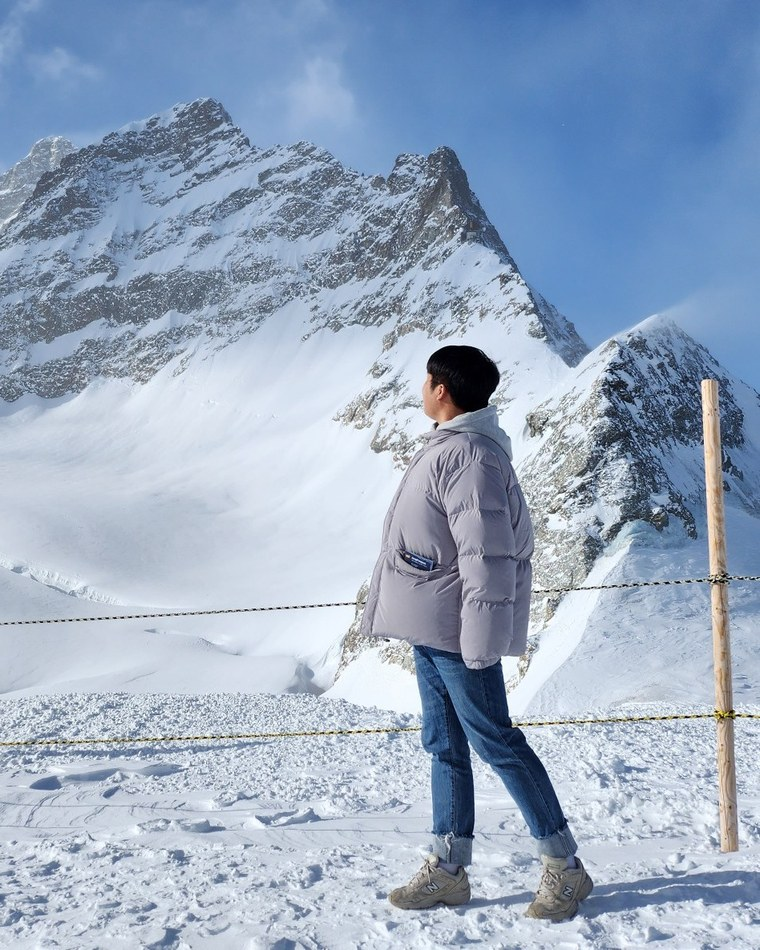
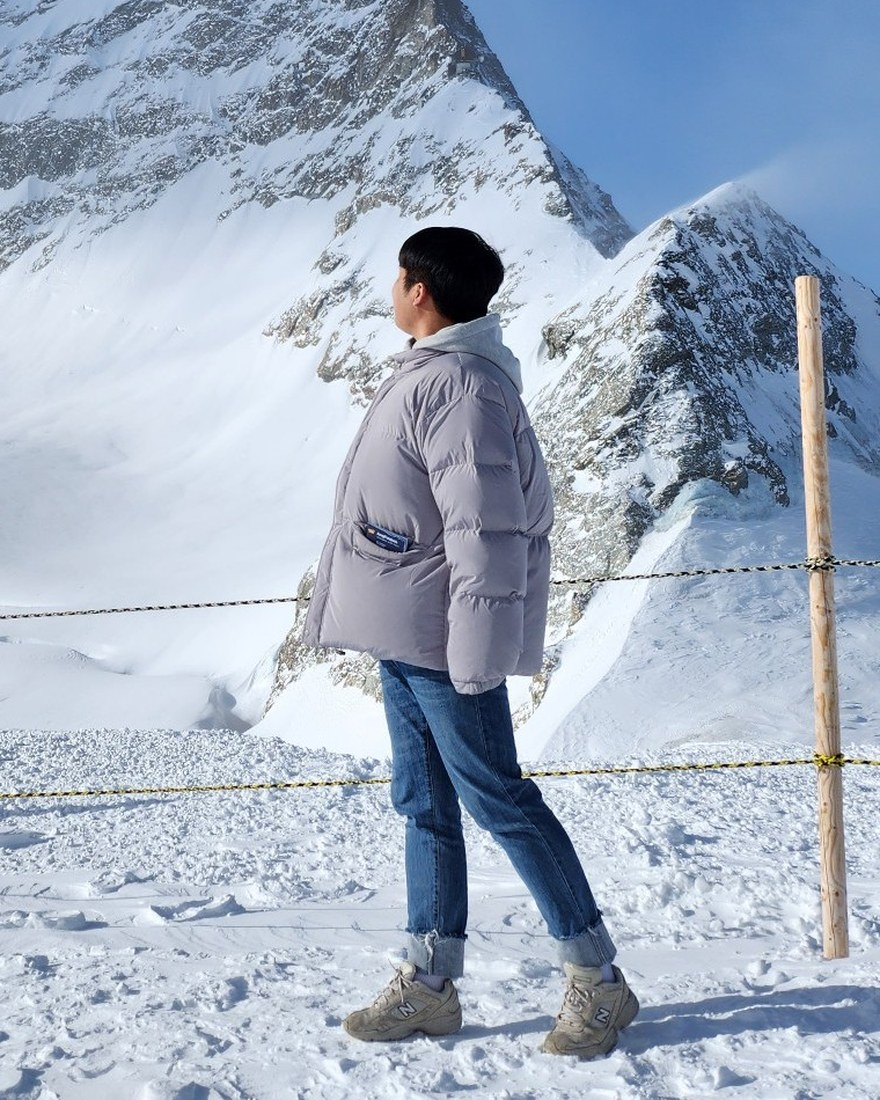
Enlarge the hero photo so it fills the column
The photo was 148px wide against a much taller block of text, leaving dead
space under it. It now stretches to the height of the text beside it, so both
columns end level, and the image is recropped tighter on the subject.

diff --git a/assets/styles.css b/assets/styles.css
@@ -166,20 +166,18 @@ img { max-width: 100%; height: auto; }
 }
 
 /* ---------- hero ---------- */
+/* The photo stretches to the height of the text beside it, so the two
+   columns end level and no dead space opens up under the image. */
 .profile {
   display: flex;
   gap: 26px;
-  align-items: flex-start;
+  align-items: stretch;
   padding: 38px 0 28px;
 }
 
-@media (max-width: 620px) {
-  .profile { flex-direction: column; gap: 18px; }
-}
-
 .profile-photo {
-  width: 148px;
-  aspect-ratio: 4 / 5;
+  width: 208px;
+  min-height: 260px;
   flex: none;
   border-radius: 3px;
   overflow: hidden;
@@ -194,7 +192,18 @@ img { max-width: 100%; height: auto; }
   color: var(--accent);
 }
 
-.profile-photo img { width: 100%; height: 100%; object-fit: cover; display: block; }
+.profile-photo img {
+  width: 100%;
+  height: 100%;
+  object-fit: cover;
+  object-position: 50% 42%;
+  display: block;
+}
+
+@media (max-width: 620px) {
+  .profile { flex-direction: column; gap: 18px; align-items: flex-start; }
+  .profile-photo { width: 100%; max-width: 280px; min-height: 0; aspect-ratio: 4 / 5; }
+}
 
 .profile-name {
   font-family: var(--serif);

diff --git a/index.html b/index.html
@@ -15,7 +15,7 @@
 <link rel="preconnect" href="https://fonts.googleapis.com">
 <link rel="preconnect" href="https://fonts.gstatic.com" crossorigin>
 <link rel="stylesheet" href="https://fonts.googleapis.com/css2?family=Source+Serif+4:opsz,wght@8..60,600;8..60,700&family=Libre+Franklin:wght@400;500;600&family=IBM+Plex+Mono:wght@400;500&display=swap">
-<link rel="stylesheet" href="assets/styles.css?v=2">
+<link rel="stylesheet" href="assets/styles.css?v=3">
 <link rel="icon" href="assets/favicon.ico" sizes="any">
 <link rel="icon" type="image/png" sizes="32x32" href="assets/favicon-32x32.png">
 <link rel="icon" type="image/png" sizes="192x192" href="assets/favicon-192x192.png">

diff --git a/news.html b/news.html
@@ -8,7 +8,7 @@
 <link rel="preconnect" href="https://fonts.googleapis.com">
 <link rel="preconnect" href="https://fonts.gstatic.com" crossorigin>
 <link rel="stylesheet" href="https://fonts.googleapis.com/css2?family=Source+Serif+4:opsz,wght@8..60,600;8..60,700&family=Libre+Franklin:wght@400;500;600&family=IBM+Plex+Mono:wght@400;500&display=swap">
-<link rel="stylesheet" href="assets/styles.css?v=2">
+<link rel="stylesheet" href="assets/styles.css?v=3">
 <link rel="icon" href="assets/favicon.ico" sizes="any">
 <link rel="icon" type="image/png" sizes="32x32" href="assets/favicon-32x32.png">
 <link rel="icon" type="image/png" sizes="192x192" href="assets/favicon-192x192.png">

diff --git a/projects.html b/projects.html
@@ -8,7 +8,7 @@
 <link rel="preconnect" href="https://fonts.googleapis.com">
 <link rel="preconnect" href="https://fonts.gstatic.com" crossorigin>
 <link rel="stylesheet" href="https://fonts.googleapis.com/css2?family=Source+Serif+4:opsz,wght@8..60,600;8..60,700&family=Libre+Franklin:wght@400;500;600&family=IBM+Plex+Mono:wght@400;500&display=swap">
-<link rel="stylesheet" href="assets/styles.css?v=2">
+<link rel="stylesheet" href="assets/styles.css?v=3">
 <link rel="icon" href="assets/favicon.ico" sizes="any">
 <link rel="icon" type="image/png" sizes="32x32" href="assets/favicon-32x32.png">
 <link rel="icon" type="image/png" sizes="192x192" href="assets/favicon-192x192.png">

diff --git a/publications.html b/publications.html
@@ -8,7 +8,7 @@
 <link rel="preconnect" href="https://fonts.googleapis.com">
 <link rel="preconnect" href="https://fonts.gstatic.com" crossorigin>
 <link rel="stylesheet" href="https://fonts.googleapis.com/css2?family=Source+Serif+4:opsz,wght@8..60,600;8..60,700&family=Libre+Franklin:wght@400;500;600&family=IBM+Plex+Mono:wght@400;500&display=swap">
-<link rel="stylesheet" href="assets/styles.css?v=2">
+<link rel="stylesheet" href="assets/styles.css?v=3">
 <link rel="icon" href="assets/favicon.ico" sizes="any">
 <link rel="icon" type="image/png" sizes="32x32" href="assets/favicon-32x32.png">
 <link rel="icon" type="image/png" sizes="192x192" href="assets/favicon-192x192.png">

diff --git a/research.html b/research.html
@@ -8,7 +8,7 @@
 <link rel="preconnect" href="https://fonts.googleapis.com">
 <link rel="preconnect" href="https://fonts.gstatic.com" crossorigin>
 <link rel="stylesheet" href="https://fonts.googleapis.com/css2?family=Source+Serif+4:opsz,wght@8..60,600;8..60,700&family=Libre+Franklin:wght@400;500;600&family=IBM+Plex+Mono:wght@400;500&display=swap">
-<link rel="stylesheet" href="assets/styles.css?v=2">
+<link rel="stylesheet" href="assets/styles.css?v=3">
 <link rel="icon" href="assets/favicon.ico" sizes="any">
 <link rel="icon" type="image/png" sizes="32x32" href="assets/favicon-32x32.png">
 <link rel="icon" type="image/png" sizes="192x192" href="assets/favicon-192x192.png">

diff --git a/README.md b/README.md
@@ -69,9 +69,10 @@ You should almost never need to touch HTML.
 1. **Publication figures.** `assets/figures/*.svg` are placeholder diagrams drawn to
    stand in for the real thing. Export the actual figures from your papers at roughly
    1200×740 and point each entry's `figure` at them.
-2. **Profile photo.** `assets/profile.jpg` is a 4:5 crop of the mountain photo from
-   the old site. A headshot would read better at 148px wide — drop one in at the same
-   path and nothing else needs to change.
+2. **Profile photo.** `assets/profile.jpg` is a crop of the mountain photo from the
+   old site. In the hero it stretches to match the height of the text beside it, so
+   the two columns end level — a replacement should be a portrait shot with the
+   subject centered horizontally. Drop it in at the same path; no CSS change needed.
 3. **CV.** `assets/Chiwoo_Roh_CV.pdf` is a copy of the August 2026 version. Re-copy it
    whenever the CV changes.
 
